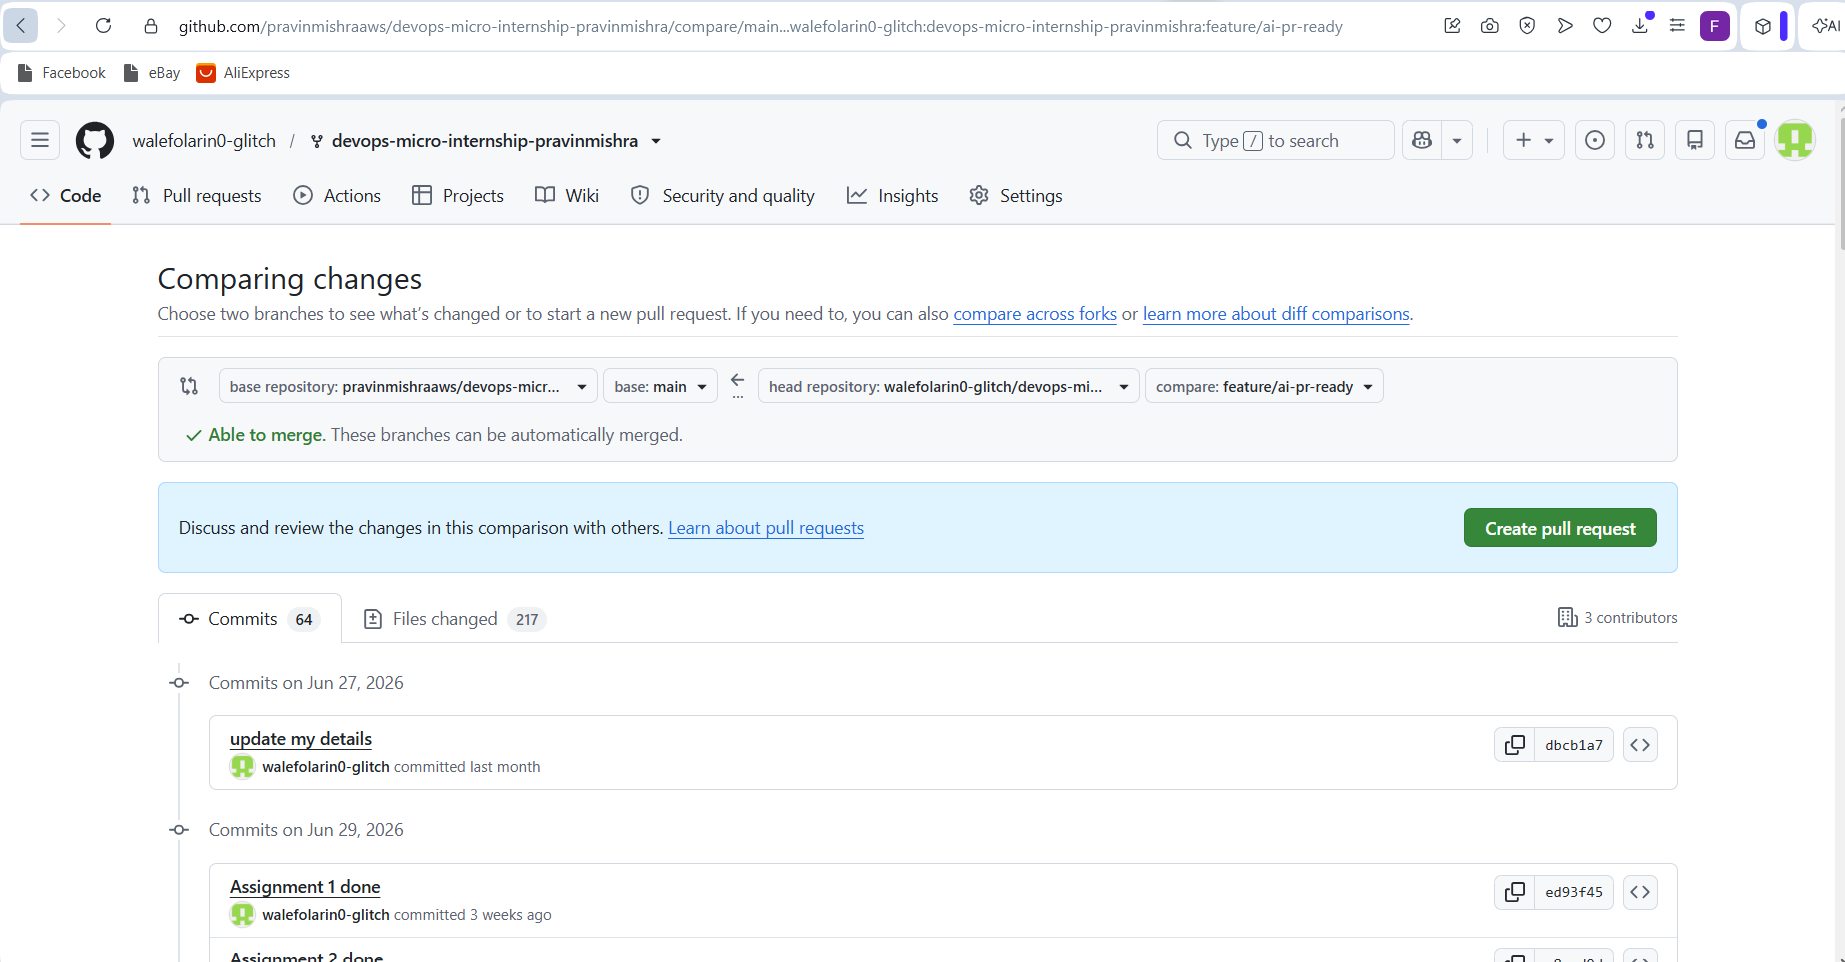
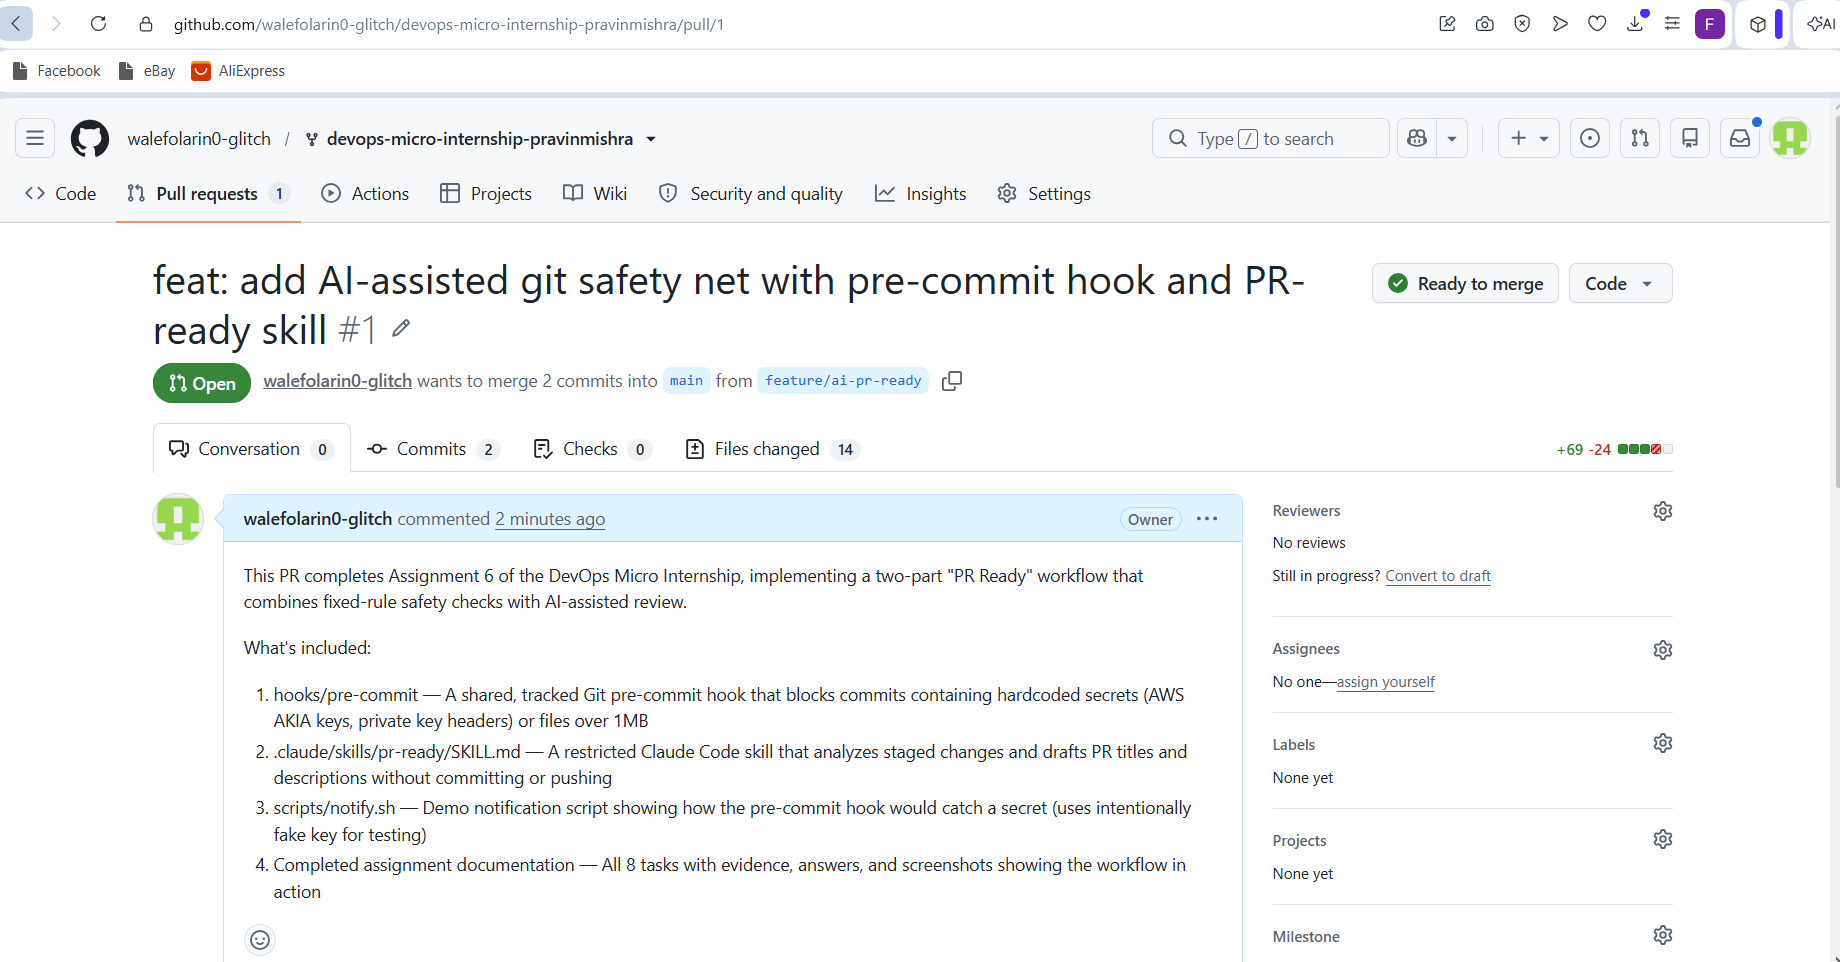
Assigment 3 05 and 05 done

diff --git a/week-04-git-and-github/assignment-06-ai-assisted-git-safety-net.md b/week-04-git-and-github/assignment-06-ai-assisted-git-safety-net.md
@@ -204,7 +204,7 @@ Push your branch and open a real Pull Request, using `/pr-ready`'s drafted title
 
 #### PR Link
 
-Add your PR URL here...
+(https://github.com/walefolarin0-glitch/devops-micro-internship-pravinmishra/pull/1)
 
 ---
 
@@ -212,19 +212,19 @@ Add your PR URL here...
 
 **1. What, if anything, did you edit in the AI's drafted PR description before using it? Why?**
 
-Add your answer here.
+I did not edit anything
 
 ---
 
 **2. If you had blindly copy-pasted the AI's draft without reading it, what could go wrong?**
 
-Add your answer here.
+The AI could make mistake, Its imoprtant to always review.
 
 ---
 
 **3. Why does this PR need to target your own fork instead of the shared upstream repository?**
 
-Add your answer here.
+The PR targets my own fork because I have permission to push branches and create pull requests there
 
 ---
 
@@ -276,7 +276,7 @@ Publish a LinkedIn post summarizing what you built and what you learned about co
 
 #### LinkedIn Post URL
 
-Add your LinkedIn post URL here...
+(https://www.linkedin.com/posts/wale-folarin-956b6022a_dmibypravinmishra-git-github-ugcPost-7485765800935538688-TKyj/?utm_source=share&utm_medium=member_desktop&rcm=ACoAADl6z1IBZjWVdPX--51VXY7TxU7dXOVzE3c)
 
 ---
 
@@ -306,7 +306,7 @@ Add 3-5 bullet points on what you learned this week.
 
 Paste your forked repository URL here:
 
-`Add your URL here`
+https://github.com/walefolarin0-glitch/devops-micro-internship-pravinmishra.git
 
 ---
 

diff --git a/week-04-git-and-github/assignment-05-github-fork-clone-sync-pull-request.md b/week-04-git-and-github/assignment-05-github-fork-clone-sync-pull-request.md
@@ -128,13 +128,13 @@ https://github.com/pravinmishraaws/devops-micro-internship-interviews/pull/327
 
 Paste your LinkedIn post URL here:
 
-`Add your URL here`
+https://www.linkedin.com/posts/wale-folarin-956b6022a_dmibypravinmishra-git-github-ugcPost-7485765800935538688-TKyj/?utm_source=share&utm_medium=member_desktop&rcm=ACoAADl6z1IBZjWVdPX--51VXY7TxU7dXOVzE3c
 
 ---
 
 #### Screenshot — LinkedIn post showing your successfully created Pull Request
 
-Add your screenshot here.
+![screenshot](screenshots/link1.png)
 
 ---
 